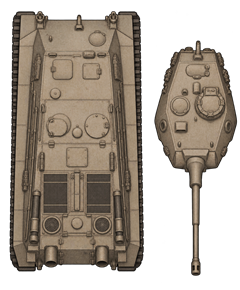
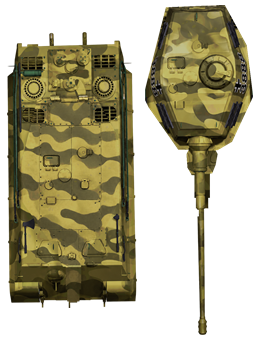
art: rebuild Tiger II sprite from reference

diff --git a/Assets/Game/Editor/PrototypeSetup.cs b/Assets/Game/Editor/PrototypeSetup.cs
@@ -21,8 +21,8 @@ namespace LocalTanks.Editor
                 "Assets/Game/Art/Tanks/TigerII/Source/Tiger-II_strip2.png",
                 "Assets/Game/GameData/Generated/Tanks/tiger_ii.asset",
                 "Assets/Game/Prefabs/Tanks/TigerII_Player.prefab",
-                new Rect(8f, 17f, 137f, 263f), new Rect(153f, 13f, 86f, 238f),
-                new Vector2(0.5f, 0.75f), new Vector2(0.78f, 0.73f), 1.30f, 69.8f,
+                new Rect(7f, 32f, 130f, 276f), new Rect(145f, 5f, 108f, 330f),
+                new Vector2(0.5f, 0.76f), new Vector2(0.76f, 0.76f), 1.9f, 69.8f,
                 CreateTigerHullOutline()),
             new TankBuildSpec(
                 "E100", "E-100",

diff --git a/Docs/TANK_SPRITE_PROMPTS.md b/Docs/TANK_SPRITE_PROMPTS.md
@@ -2,6 +2,16 @@
 
 Дата генерации: 2026-10-07. Инструмент: встроенный `image_gen`. Визуальный и композиционный эталон для всех запросов: `Assets/Game/Art/Tanks/BT2/Source/BT-2_strip2.png`.
 
+## Tiger II — точная переработка по референсу, 2026-10-08
+
+В новой версии нейросеть не разделяет и не перерисовывает видимые детали. Прозрачный танк получен отдельным проходом удаления фона, затем исходные пиксели башни, маски и полного ствола вырезаны единой маской. Для скрытой палубы использован только следующий служебный запрос:
+
+```text
+Edit the supplied transparent top-down Tiger II image. This is a narrowly scoped reconstruction pass, not a redesign. Remove only the complete turret assembly, mantlet, and gun barrel, and reconstruct the small hull-deck area that was hidden directly underneath the turret using the adjacent armor plates, camouflage colors, deck texture, and lighting. Keep the hull at exactly the same orientation, placement, scale, silhouette, proportions, color, tracks, engine deck, tools, grilles, hatches, and all other visible details. Keep the background genuinely transparent. Do not rotate, crop, resize, restyle, repaint, simplify, add labels, or invent a different tank. The result is only a donor image for the hidden hull patch; preserve everything outside that patch as closely as possible.
+```
+
+После этого корпус и башенная группа собраны детерминированно с одним общим масштабом; генеративное разделение деталей не применялось.
+
 ## Tiger II
 
 ```text

diff --git a/Docs/CHANGELOG.md b/Docs/CHANGELOG.md
@@ -2,6 +2,21 @@
 
 Все существенные изменения проекта фиксируются здесь после завершения задачи.
 
+## 2026-10-08 — Tiger II по авторскому референсу
+
+### Изменено
+
+- Спрайт Tiger II заменён вариантом, сохраняющим геометрию, камуфляж и детали переданного вида сверху вместо повторной нейросеточной перерисовки машины.
+- Башня, маска орудия и полный ствол вырезаны из одного исходного изображения как единая жёсткая деталь; корпус и башня уменьшены одним общим коэффициентом.
+- Лист увеличен до 260×340, чтобы длинный ствол помещался без отдельного сжатия; обновлены нарезка, pivot башни, равномерный визуальный масштаб и положение дула.
+- Нейросеть использована только как источник небольшого участка палубы, ранее скрытого башней; все видимые части взяты из референса.
+
+### Проверено
+
+- Максимальное отклонение общего масштаба после пиксельного округления — 0,23%; искажение пропорций башенной группы — 0,19%.
+- Edit Mode: 60 тестов пройдено, 0 ошибок.
+- Play Mode: 31 тест пройден, 0 ошибок.
+
 ## 2026-10-07 — Единый визуальный стиль танков
 
 ### Изменено
